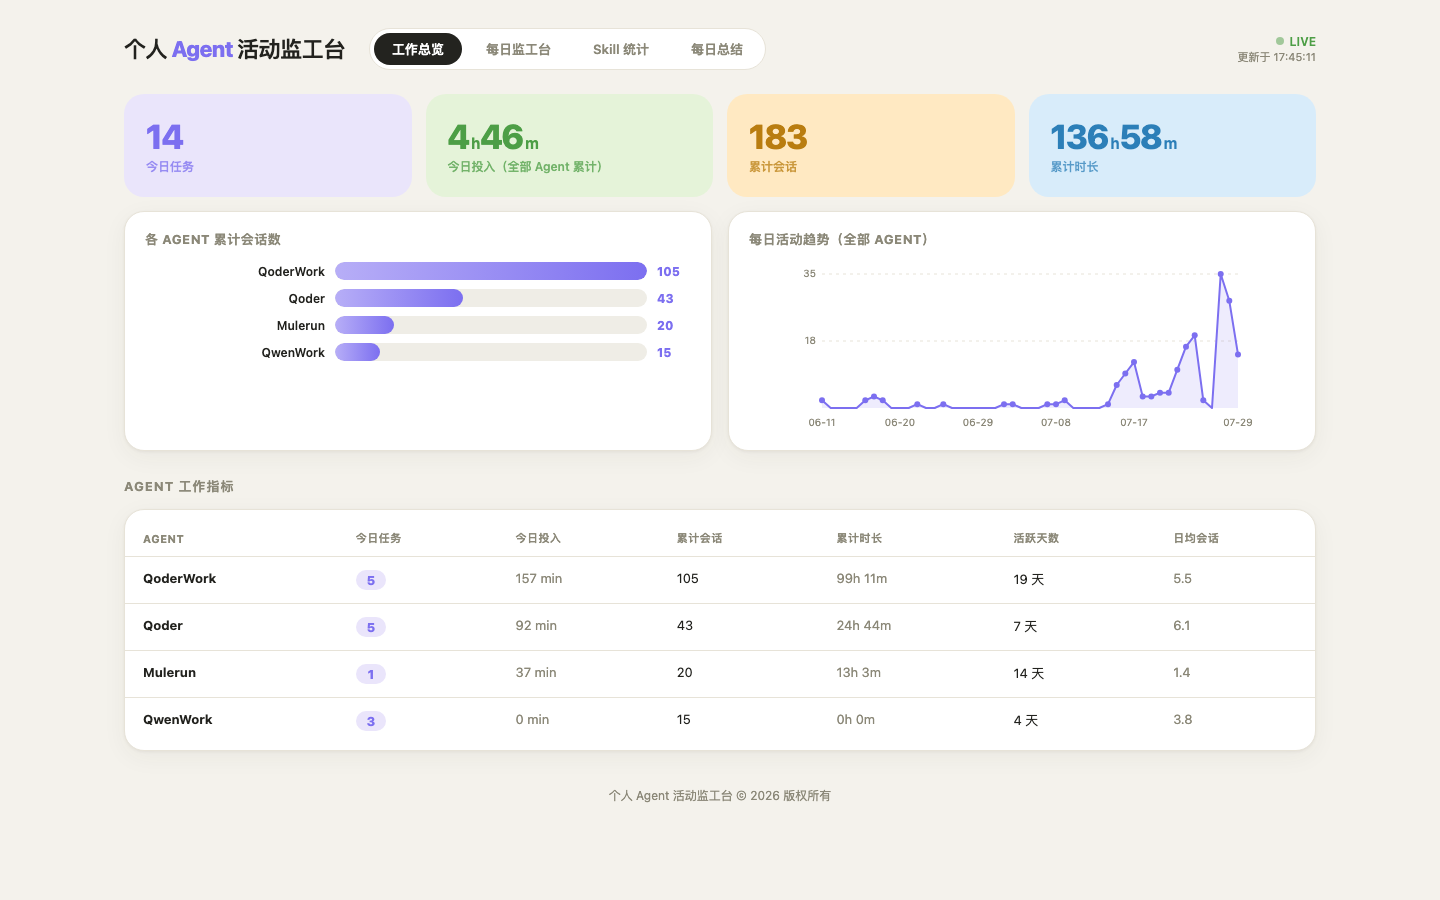
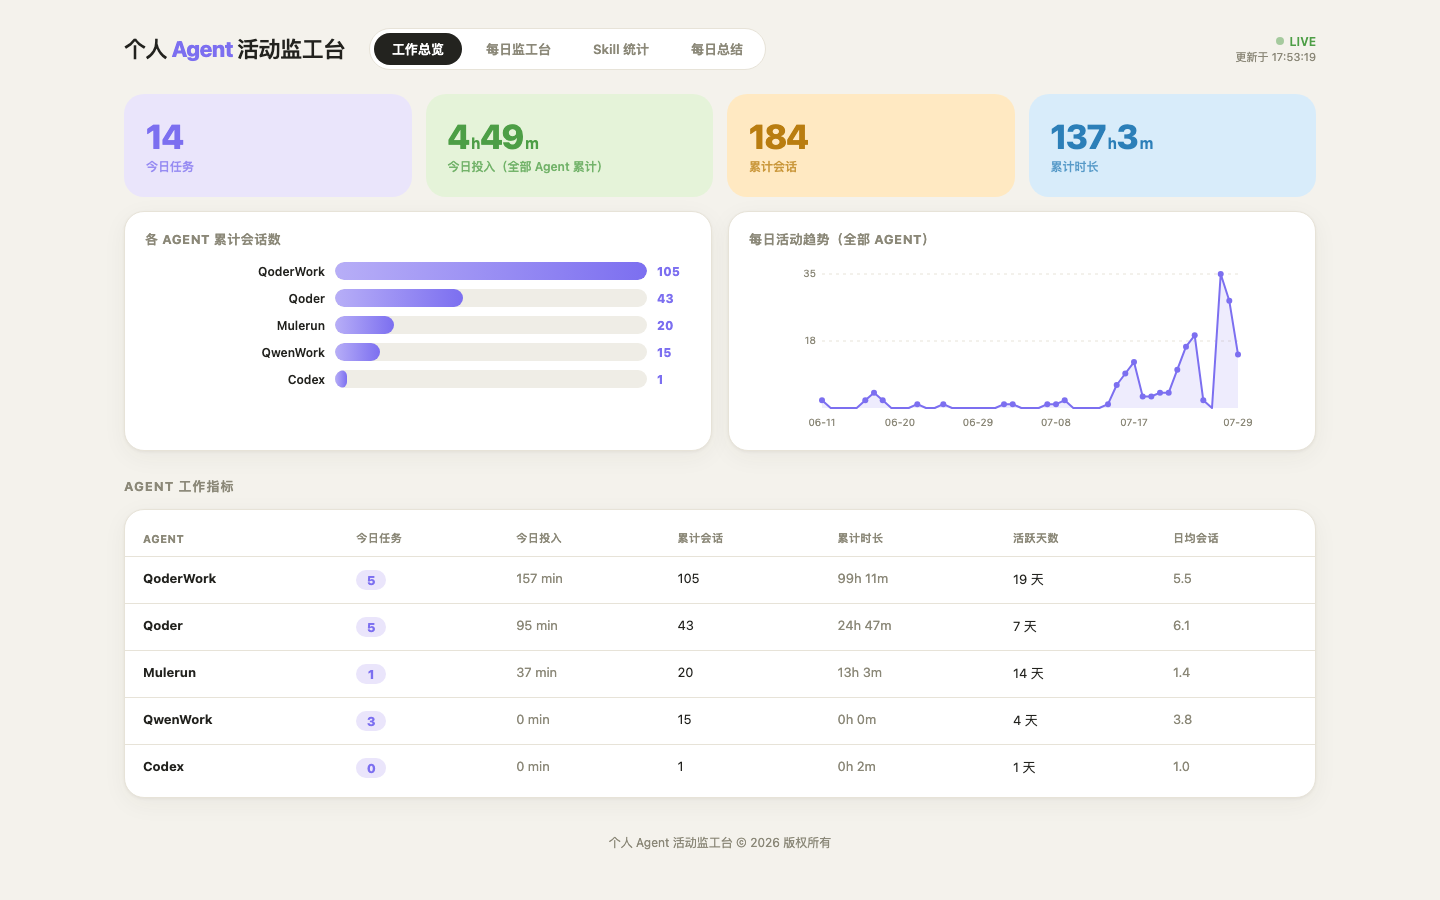
fix: Codex数据库WAL锁时降级immutable读，工作总览始终保留Codex；更新README截图

diff --git a/server.py b/server.py
@@ -370,7 +370,12 @@ def poll_codex():
     if not os.path.exists(db_path):
         return None
     try:
-        conn = sqlite3.connect(f"file:{db_path}?mode=ro", uri=True)
+        try:
+            conn = sqlite3.connect(f"file:{db_path}?mode=ro", uri=True)
+            conn.execute("SELECT 1 FROM threads LIMIT 1")
+        except sqlite3.OperationalError:
+            # WAL 锁导致 ro 模式打不开时降级 immutable 快照读
+            conn = sqlite3.connect(f"file:{db_path}?mode=ro&immutable=1", uri=True)
         conn.row_factory = sqlite3.Row
         cur = conn.cursor()
         start, _ = get_today_range()
@@ -743,16 +748,23 @@ def scan_overview():
         except Exception as e:
             send_log(f"overview mulerun: {e}")
 
-    # Codex
+    # Codex（mode=ro 被 WAL 锁拒绝时降级 immutable 快照读；仍失败则保留空条目，不从列表消失）
     db = os.path.expanduser("~/.codex/state_5.sqlite")
     if os.path.exists(db):
         try:
-            conn = sqlite3.connect(f"file:{db}?mode=ro", uri=True)
+            try:
+                conn = sqlite3.connect(f"file:{db}?mode=ro", uri=True)
+                conn.execute("SELECT 1 FROM threads LIMIT 1")
+            except sqlite3.OperationalError:
+                conn = sqlite3.connect(f"file:{db}?mode=ro&immutable=1", uri=True)
             for c, u in conn.execute("SELECT created_at_ms, updated_at_ms FROM threads WHERE archived = 0"):
                 _ov_add(ov, "Codex", (c or 0) / 1000, (u or 0) / 1000)
             conn.close()
         except Exception as e:
             send_log(f"overview codex: {e}")
+        if "Codex" not in ov:
+            ov["Codex"] = {"name": "Codex", "sessions": 0, "duration_min": 0,
+                           "daily": {}, "today_count": 0, "today_min": 0}
 
     # QwenWork
     ws = os.path.expanduser("~/.qwenworkcn/workspace")
